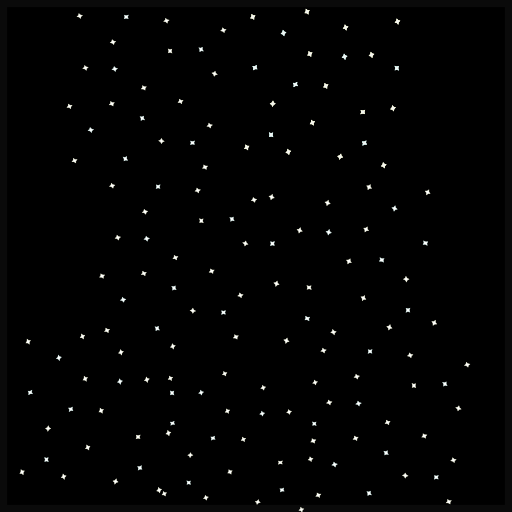
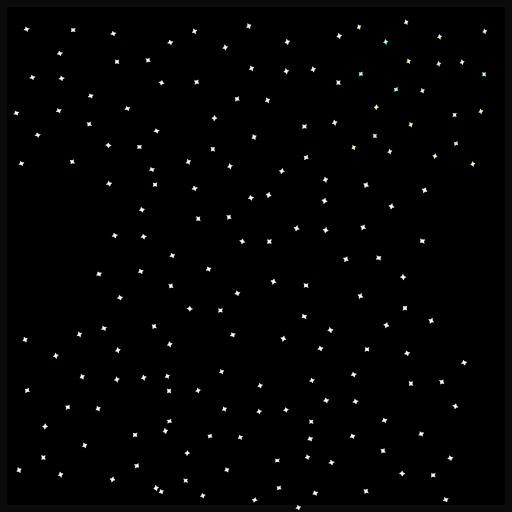
Twinkling stars

diff --git a/main-scene.js b/main-scene.js
@@ -33,7 +33,7 @@ class Space_Invaders_Scene extends Scene_Component
 
         this.materials =
           { 
-            skybox: context.get_instance( Phong_Shader ).material( Color.of( 0,0,0,1 ), { ambient:0.4, texture:  context.get_instance( "assets/img/skybox.png", false )} ),
+            skybox: context.get_instance( Texture_Rotate ).material( Color.of( 0,0,0,1 ), { ambient:0.4, texture:  context.get_instance( "assets/img/skybox.png", false )} ),
 
             invader1: context.get_instance( Phong_Shader1 ).material( Color.of( 1,.855,.078,1 ), { ambient:0.4} ), //make intermediate models
             invader2: context.get_instance( Phong_Shader1 ).material( Color.of( .224,1,.078,1 ), { ambient:0.4} ),
@@ -383,6 +383,42 @@ class Space_Invaders_Scene extends Scene_Component
       }
 
   }
+
+class Texture_Rotate extends Phong_Shader
+{ fragment_glsl_code()           // ********* FRAGMENT SHADER ********* 
+    {
+      // TODO:  Modify the shader below (right now it's just the same fragment shader as Phong_Shader) for requirement #7.
+      return `
+        uniform sampler2D texture;
+        void main()
+        { if( GOURAUD || COLOR_NORMALS )    // Do smooth "Phong" shading unless options like "Gouraud mode" are wanted instead.
+          { gl_FragColor = VERTEX_COLOR;    // Otherwise, we already have final colors to smear (interpolate) across vertices.            
+            return;
+          }                                 // If we get this far, calculate Smooth "Phong" Shading as opposed to Gouraud Shading.
+                                            // Phong shading is not to be confused with the Phong Reflection Model.
+
+          mat3 trans_matrix = mat3(1.0, 0.0, 0.5,
+                                   0.0, 1.0, 0.5,
+                                   0.0, 0.0, 1.0);
+          mat3 trans2_matrix = mat3(1.0, 0.0, -0.5,
+                                    0.0, 1.0, -0.5,
+                                    0.0, 0.0, 1.0);
+
+          float PI = 3.1415926535897932384626433832795;
+          float angle = 0.07*(floor(animation_time) - 2.0 * floor(animation_time/2.0));
+          mat3 rot_matrix = mat3(cos(angle), sin(angle), 0.0, 
+                                -sin(angle), cos(angle), 0.0, 
+                                 0.0, 0.0, 1.0);
+
+          vec3 r_tex_coord = vec3(f_tex_coord, 1.0) * trans2_matrix * rot_matrix * trans_matrix;  
+          vec4 tex_color = texture2D( texture, vec2(r_tex_coord.x, r_tex_coord.y ));                         // Sample the texture image in the correct place.
+                                                                                      // Compute an initial (ambient) color:
+          if( USE_TEXTURE ) gl_FragColor = vec4( ( tex_color.xyz + shapeColor.xyz ) * ambient, shapeColor.w * tex_color.w ); 
+          else gl_FragColor = vec4( shapeColor.xyz * ambient, shapeColor.w );
+          gl_FragColor.xyz += phong_model_lights( N );                     // Compute the final color with contributions from lights.
+        }`;
+    }
+}
 
 class Shadow_Shader extends Shader
 { material()     // Define an internal class "Material" that stores the standard settings found in Phong lighting.
